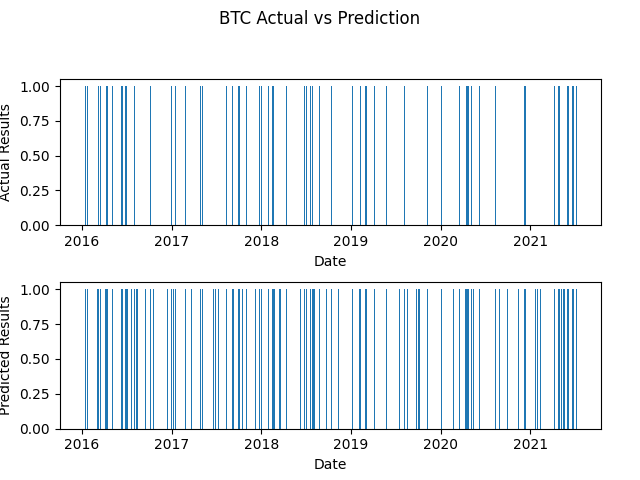
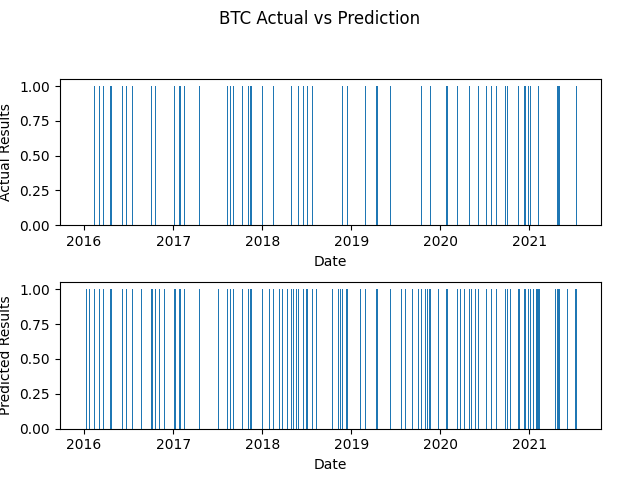
Added evaluation metrics to the models

diff --git a/models.py b/models.py
@@ -7,6 +7,7 @@ from sklearn.naive_bayes import GaussianNB
 from sklearn.linear_model import LinearRegression
 from sklearn.model_selection import train_test_split
 from sklearn.model_selection import GridSearchCV
+from sklearn.metrics import classification_report
 
 def runModels(eth_data, btc_data, with_hypertuning=False):
     eth_model_data = split_data(eth_data)
@@ -103,13 +104,13 @@ def linear_regression(eth_data, btc_data, with_hypertuning):
     model_string = 'linearRegression'
     if not with_hypertuning:
         model = LinearRegression()
-        classification(eth_data, model, model_string, is_btc=False)
-        classification(btc_data, model, model_string, is_btc=True)
+        classification(eth_data, model, model_string, is_btc=False, is_linear_regression=True)
+        classification(btc_data, model, model_string, is_btc=True, is_linear_regression=True)
 
 #########################################################
 # Classification Helper Functions
 
-def classification(model_data, model, model_string, is_btc=True):
+def classification(model_data, model, model_string, is_btc=True, is_linear_regression=False):
     X_train, X_valid, y_train, y_valid = model_data[0], model_data[1], model_data[2], model_data[3]
     feature_names = ['Open', 'High', 'Low', 'Close', 'Volume', 'sentiment']
     if is_btc == True:
@@ -123,7 +124,14 @@ def classification(model_data, model, model_string, is_btc=True):
     print(model_string + " valid accuracy: ", model.score(X_valid[feature_names], y_valid))
     X_test = X_valid
     X_test['predictions'] = model.predict(X_valid[feature_names])
+    if not is_linear_regression:
+        get_evaluation_metrics(X_test['predictions'], y_valid)
     plot_model_results(X_test, y_valid, title, save_fig)
+
+def get_evaluation_metrics(predicted, true_values):
+    target_names = ['Increased', 'Decreased']
+    eval_metrics = classification_report(true_values, predicted, target_names=target_names, zero_division=1)
+    print(eval_metrics)
 
 def hyper_tuning(model_data, model, model_string, parameters, is_btc=True):
     X_train, X_valid, y_train, y_valid = model_data[0], model_data[1], model_data[2], model_data[3]

diff --git a/cryptoAnalysis.py b/cryptoAnalysis.py
@@ -5,9 +5,9 @@ from tests import run_tests
 def main():
     print("Preprocesssing data...")
     eth_data, bth_data = preprocess_data()
-    #print("Building Models...")
+    print("Building Models...")
     # runModels(eth_data, bth_data, with_hypertuning=True)
-    #runModels(eth_data, bth_data, with_hypertuning=False)
+    runModels(eth_data, bth_data, with_hypertuning=False)
     run_tests(eth_data, bth_data)
 
 if __name__ == '__main__':
